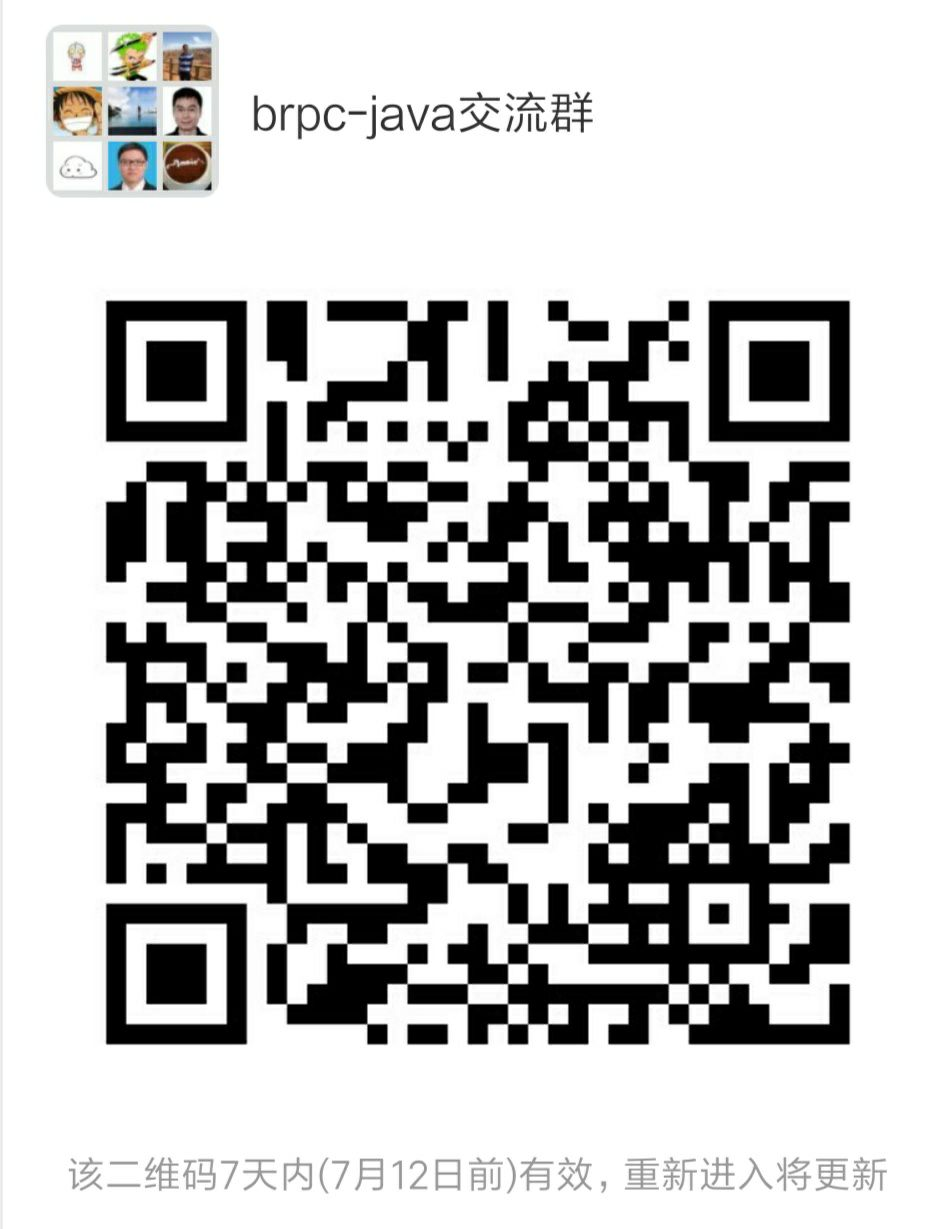
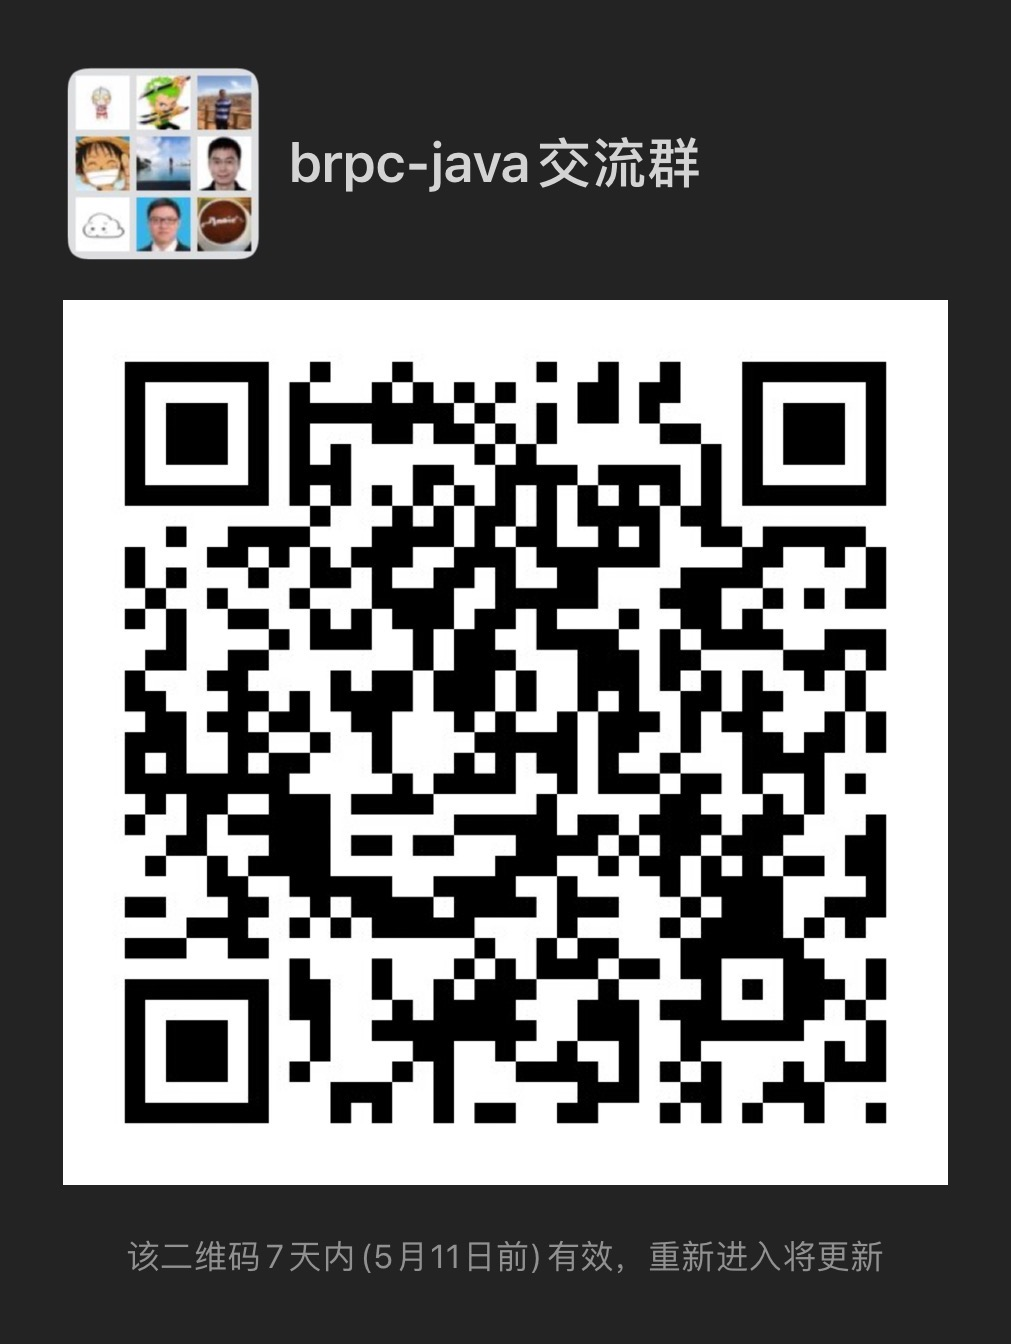
Updates README.md
- Changes badge for build status
- Adds badge for code coverage
- Adds spaces between English words and Chinese characters
- Updates WeChat Group QR Code

diff --git a/README.md b/README.md
@@ -1,27 +1,28 @@
-[![Build Status](https://travis-ci.org/baidu/brpc-java.svg?branch=master)](https://travis-ci.org/baidu/brpc-java) 
-![license](https://img.shields.io/github/license/baidu/brpc-java.svg)
-![maven](https://img.shields.io/maven-central/v/com.baidu/brpc-java.svg)
+![Build Status](https://img.shields.io/github/workflow/status/baidu/brpc-java/Unit%20Test)
+![Coverage](https://img.shields.io/codecov/c/gh/baidu/brpc-java)
+![License](https://img.shields.io/github/license/baidu/brpc-java.svg)
+![Maven](https://img.shields.io/maven-central/v/com.baidu/brpc-java.svg)
 
 # 项目名称
-brpc-java是baidu rpc的java版本实现，支持baidu rpc、nshead、sofa、hulu、http、stargate、dubbo协议。
+brpc-java 是 baidu rpc 的 java 版本实现，支持 baidu rpc、nshead、sofa、hulu、http、stargate、dubbo 等协议。
 
 # 核心功能点
-* 支持baidu rpc标准协议、sofa协议、hulu协议、nshead+protobuf协议、http+protobuf/json协议、public pbrpc、stargate、dubbo协议。
-* 支持SpringBoot starter，也支持SpringCloud的服务注册发现、用brpc-java替换Feign http调用，提升性能。
-* 支持Server Push机制，并支持扩展Server Push协议。
-* 支持多种naming服务，比如Zookeeper、Consul、List、File、DNS等，可以灵活扩展支持etcd、eureka、nacos等。
-* 支持多种负载均衡策略，比如fair、random、round robin、weight等。
-* 支持interceptor功能，支持计数器、令牌桶等server端限流算法。
-* rpc功能可独立使用，不是必须依赖Spring和注册中心功能。
-* 基于SPI机制可灵活扩展Protocol、NamingService和LoadBalance。
+* 支持 baidu rpc 标准协议、sofa 协议、hulu 协议、nshead+protobuf 协议、http+protobuf/json 协议、public pbrpc、stargate、dubbo协议。
+* 支持 Spring Boot Starter，也支持 Spring Cloud 的服务注册发现、用 brpc-java 替换 Feign HTTP 调用，提升性能。
+* 支持 Server Push 机制，并支持扩展 Server Push 协议。
+* 支持多种 naming 服务，比如 Zookeeper、Consul、List、File、DNS 等，可以灵活扩展支持 etcd、eureka、nacos 等。
+* 支持多种负载均衡策略，比如 fair、random、round robin、weight 等。
+* 支持 interceptor 功能，支持计数器、令牌桶等 server 端限流算法。
+* RPC 功能可独立使用，不是必须依赖 Spring 和注册中心功能。
+* 基于 SPI 机制可灵活扩展 Protocol、NamingService 和 LoadBalance。
 
 ## 快速开始
 ### 开发环境
 java 6+ && protobuf 2.5.0+
 
-### 引入maven依赖
-#### protobuf 2.x环境
-非Spring环境：
+### 引入 maven 依赖
+#### protobuf 2.x 环境
+非 Spring 环境：
 ```xml
 <dependency>
     <groupId>com.baidu</groupId>
@@ -29,7 +30,7 @@ java 6+ && protobuf 2.5.0+
     <version>3.0.0</version>
 </dependency>
 ```
-Spring环境：
+Spring 环境：
 ```xml
 <dependency>
     <groupId>com.baidu</groupId>
@@ -37,7 +38,7 @@ Spring环境：
     <version>3.0.0</version>
 </dependency>
 ```
-SpringBoot环境：
+Spring Boot 环境：
 ```xml
 <dependency>
     <groupId>com.baidu</groupId>
@@ -45,7 +46,7 @@ SpringBoot环境：
     <version>3.0.0</version>
 </dependency>
 ```
-SpringCloud环境：
+Spring Cloud 环境：
 ```xml
 <dependency>
     <groupId>com.baidu</groupId>
@@ -53,7 +54,7 @@ SpringCloud环境：
     <version>3.0.0</version>
 </dependency>
 ```
-Zookeeper注册中心：
+Zookeeper 注册中心：
 ```xml
 <dependency>
     <groupId>com.baidu</groupId>
@@ -61,7 +62,7 @@ Zookeeper注册中心：
     <version>3.0.0</version>
 </dependency>
 ```
-Consul注册中心：
+Consul 注册中心：
 ```xml
 <dependency>
     <groupId>com.baidu</groupId>
@@ -69,8 +70,8 @@ Consul注册中心：
     <version>3.0.0</version>
 </dependency>
 ```
-#### protobuf 3.x环境
-除了引入protobuf2.x环境所需依赖外，还需要增加protobuf3.x依赖：
+#### protobuf 3.x 环境
+除了引入 protobuf 2.x 环境所需依赖外，还需要增加 protobuf 3.x 依赖：
 ```xml
 <dependency>
     <groupId>com.google.protobuf</groupId>
@@ -85,50 +86,47 @@ Consul注册中心：
     <version>3.11.0</version>
 </dependency>
 ```
-### Server端使用
-* [server端基本用法](https://github.com/baidu/brpc-java/blob/master/docs/cn/server.md)
-* [搭建标准协议/sofa协议/hulu协议server](https://github.com/baidu/brpc-java/blob/master/docs/cn/brpc_server.md)
-* [搭建nshead server](https://github.com/baidu/brpc-java/blob/master/docs/cn/nshead_server.md)
-* [搭建http server](https://github.com/baidu/brpc-java/blob/master/docs/cn/http_server.md)
-* [server push 推送用法](https://github.com/baidu/brpc-java/blob/master/docs/cn/server_push.md)
+### Server 端使用
+* [Server 端基本用法](https://github.com/baidu/brpc-java/blob/master/docs/cn/server.md)
+* [搭建标准协议/sofa 协议/hulu 协议 server](https://github.com/baidu/brpc-java/blob/master/docs/cn/brpc_server.md)
+* [搭建 nshead server](https://github.com/baidu/brpc-java/blob/master/docs/cn/nshead_server.md)
+* [搭建 HTTP server](https://github.com/baidu/brpc-java/blob/master/docs/cn/http_server.md)
+* [Server Push 推送用法](https://github.com/baidu/brpc-java/blob/master/docs/cn/server_push.md)
 
-### Client端使用
-* [client端基本用法](https://github.com/baidu/brpc-java/blob/master/docs/cn/client.md)
+### Client 端使用
+* [Client 端基本用法](https://github.com/baidu/brpc-java/blob/master/docs/cn/client.md)
 
-### 与Spring集成
-* [Spring集成使用](https://github.com/baidu/brpc-java/blob/master/docs/cn/spring.md)
+### 与 Spring 集成
+* [Spring 集成使用](https://github.com/baidu/brpc-java/blob/master/docs/cn/spring.md)
 
 ### 扩展
-* [扩展Protocol、NamingService、LoadBalance](https://github.com/baidu/brpc-java/blob/master/docs/cn/extension.md)
+* [扩展 Protocol、NamingService、LoadBalance](https://github.com/baidu/brpc-java/blob/master/docs/cn/extension.md)
 
 ### 一些设计
 #### 网络模型
-采用netty的reactor网络模型，但跟常规用法有些不同：
-* 没有使用netty的ByteToMessageDecoder去解析协议，因为ByteToMessageDecoder内部会对buffer进行拷贝。
-* 为了提高并发，尽量少在IO线程中执行业务逻辑，所以在io线程中只会去解析协议的header部分，并把body的buffer retain出来，然后丢给工作线程去处理；工作线程会decode body，并执行具体业务逻辑。
-* 由于粘包/拆包问题，可能一次socket读操作会包含多个包，所以支持了批量往工作线程中submit任务。
+采用 Netty 的 Reactor 网络模型，但跟常规用法有些不同：
+* 没有使用 Netty 的 ByteToMessageDecoder 去解析协议，因为 ByteToMessageDecoder 内部会对 buffer 进行拷贝。
+* 为了提高并发，尽量少在 IO 线程中执行业务逻辑，所以在 IO 线程中只会去解析协议的 Header 部分，并把 body 的 buffer retain 出来，然后丢给工作线程去处理；工作线程会 decode body，并执行具体业务逻辑。
+* 由于粘包/拆包问题，可能一次 socket 读操作会包含多个包，所以支持了批量往工作线程中 submit 任务。
 
-#### 零拷贝Buffer
+#### 零拷贝 Buffer
 * [DynamicCompositeByteBuf](https://github.com/baidu/brpc-java/blob/master/docs/cn/composite_buffer.md)
 
-#### 线程池ThreadPool
-* 调研过JDK的ThreadPoolExecutor、ConcurrentLinkedQueue以及Disruptor，最后使用更高性能的[ThreadPool](
-https://github.com/baidu/brpc-java/blob/master/brpc-java-communication/src/main/java/com/baidu/brpc/utils/ThreadPool.java)。
-* ThreadPool内部把生产者队列、消费者队列分开，用两个锁去控制同步，当consumer queue为空时，且producer queue不为空条件满足时，会交换两个队列。
+#### 线程池 ThreadPool
+* 调研过 JDK 的 ThreadPoolExecutor、ConcurrentLinkedQueue 以及 Disruptor，最后使用更高性能的 [ThreadPool](https://github.com/baidu/brpc-java/blob/master/brpc-java-communication/src/main/java/com/baidu/brpc/utils/ThreadPool.java) 。
+* ThreadPool 内部把生产者队列、消费者队列分开，用两个锁去控制同步，当 consumer queue 为空时，且 producer queue 不为空条件满足时，会交换两个队列。
 
-#### 比ConcurrentHashMap更快的FastFutureStore
+#### 比ConcurrentHashMap 更快的 FastFutureStore
 * [FastFutureStore](https://github.com/baidu/brpc-java/blob/master/docs/cn/fastfuturestore.md)
 
 ## 压力测试数据
 ### 部署环境：
-* Client/Server机器配置：cpu 12核，内存132G，千兆网卡。
+* Client/Server 机器配置：CPU 12核，内存 132G，千兆网卡。
 * [压测代码](https://github.com/baidu/brpc-java/blob/master/brpc-java-examples/src/main/java/com/baidu/brpc/example/standard/BenchmarkTest.java)
 ### 压力测试结果：
 | 数据量 | 5 byte | 1k byte | 2k byte | 4k byte |
 |:-----:| :-----: | :-------: | :-------: | :-------: |
-|qps    | 22w   |    10w  |  5.3w   |   2.7w  |
+| QPS | 220k | 100k | 53k | 27k |
 
 # 微信交流群：
-<img src="https://github.com/baidu/brpc-java/blob/master/weixin_qrcode.png" width=200 height=300 />
-
-
+<img src="./weixin_qrcode.png" width="320" />
